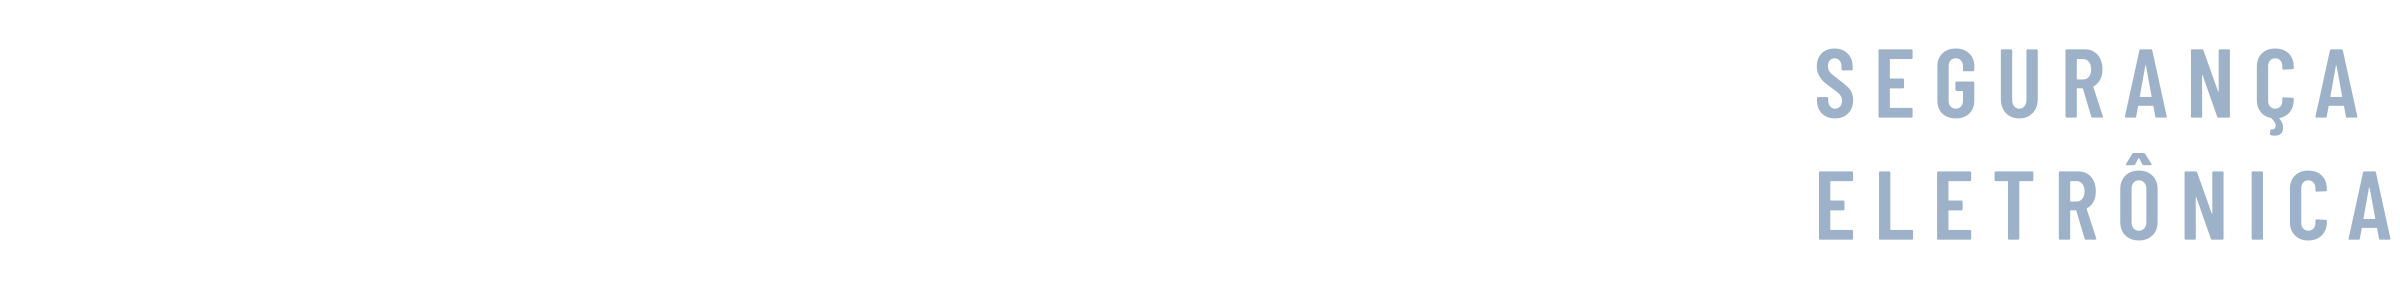
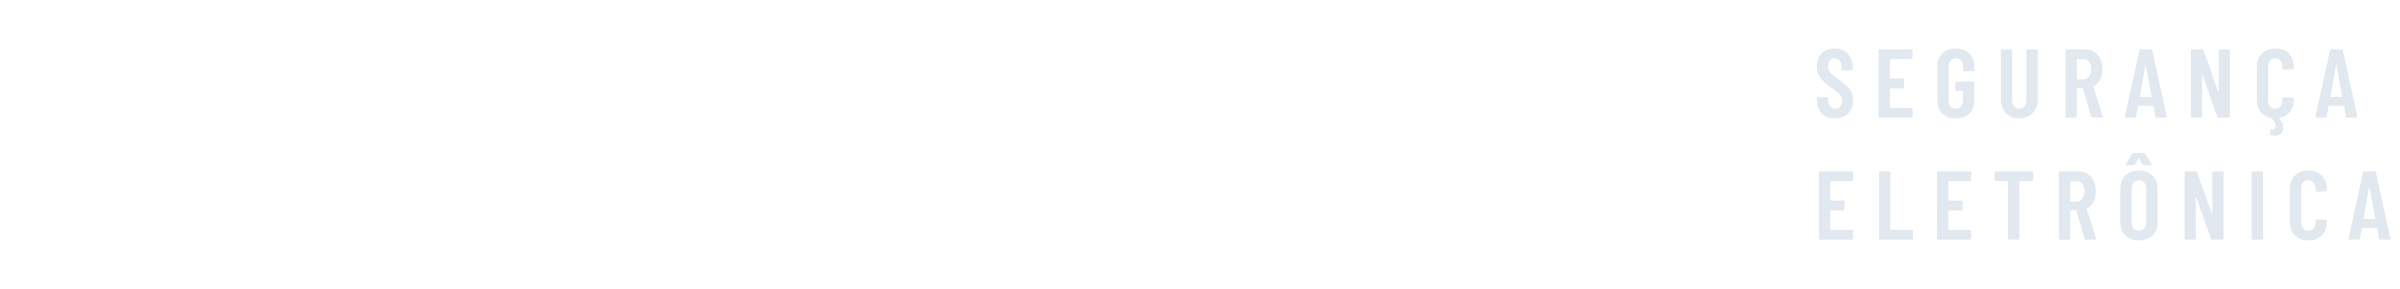
Clareia "Segurança eletrônica" nas versões para fundo escuro
Subtítulo das versões -branco da marca e do topo do site passa de #9DB2C8
para #E1E8F0 (contraste 15:1 sobre #0c141f).

Changed region(s): [[0.75, 0.5917, 1.0, 0.8408], [0.75, 0.1557, 1.0, 0.4671], [0.875, 0.5294, 0.9062, 0.5606]]

diff --git a/src/components/ui.tsx b/src/components/ui.tsx
@@ -22,7 +22,7 @@ export function Logo({ light = false, className = '' }: { light?: boolean; class
       ) : (
         <span className="font-display text-[28px] font-extrabold leading-none tracking-[0.06em] text-brand-500">UNIKON</span>
       )}
-      <span className={`hidden border-l pl-2.5 font-display text-[10px] font-semibold uppercase leading-tight tracking-[0.18em] sm:block ${light ? 'border-white/20 text-steel-300' : 'border-steel-300 text-steel-500'}`}>
+      <span className={`hidden border-l pl-2.5 font-display text-[10px] font-semibold uppercase leading-tight tracking-[0.18em] sm:block ${light ? 'border-white/20 text-steel-100' : 'border-steel-300 text-steel-500'}`}>
         Segurança
         <br />
         eletrônica
